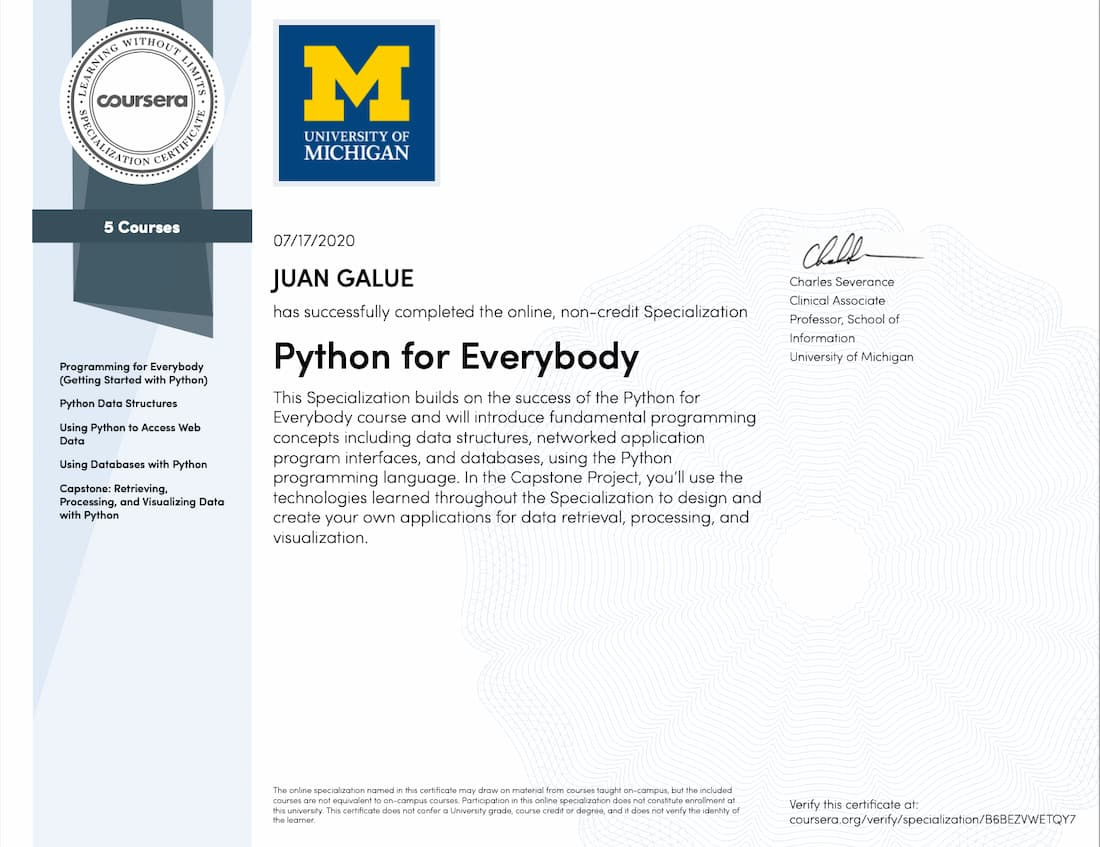
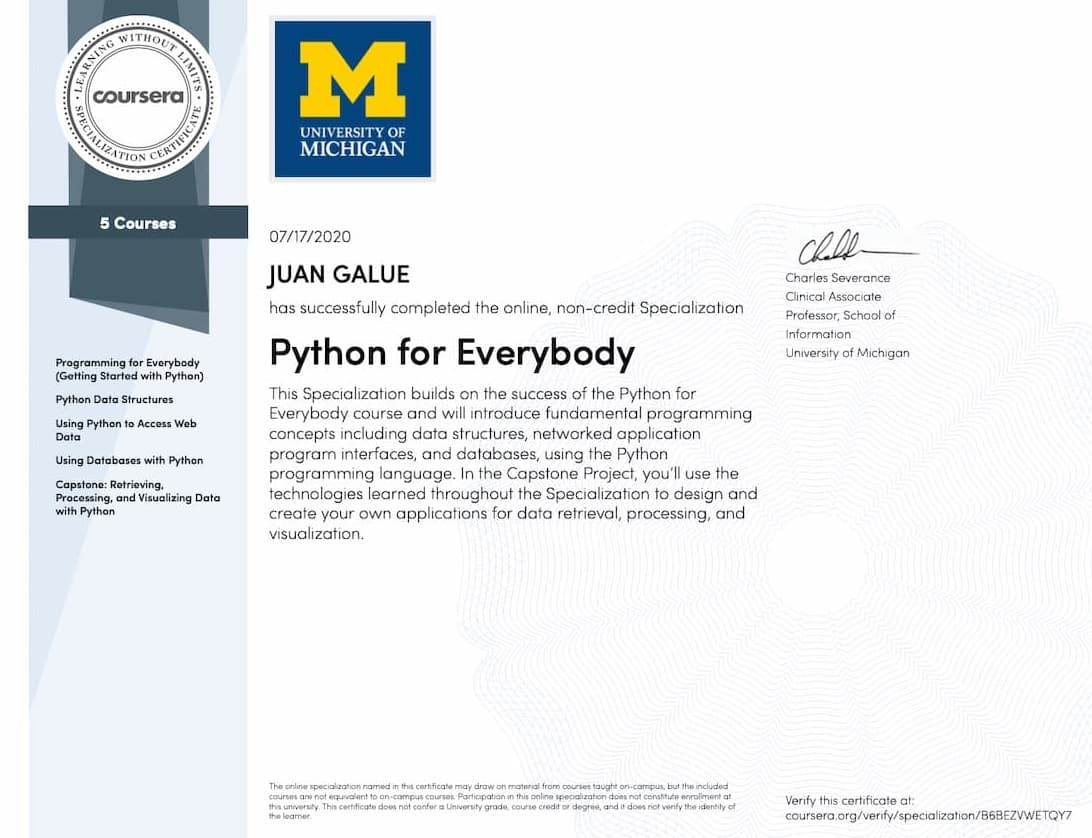
Fix some wrong dates and improve images

diff --git a/src/pages/components/Diplomas/ScriptingInPython2020.tsx b/src/pages/components/Diplomas/ScriptingInPython2020.tsx
@@ -31,7 +31,7 @@ const ScriptingInPython2020 = () => {
         Otorgado por: University of Rice a trav&eacute;s de Coursera
       </h4>
       <time className='block mb-2 text-sm font-normal leading-none text-gray-700 dark:text-slate-300'>
-        21 de noviembre de 2020
+        22 de noviembre de 2020
       </time>
       <p className='mb-4 text-base font-normal text-gray-800 dark:text-slate-200'>
         En total fueron 4 cursos sobre programaci&oacute;n esencial con Python,

diff --git a/src/pages/components/Diplomas/PFE2020.tsx b/src/pages/components/Diplomas/PFE2020.tsx
@@ -31,7 +31,7 @@ const PFE2020 = () => {
         Otorgado por: University of Michigan a trav&eacute;s de Coursera
       </h4>
       <time className='block mb-2 text-sm font-normal leading-none text-gray-700 dark:text-slate-300'>
-        16 de julio de 2020
+        17 de julio de 2020
       </time>
       <p className='mb-4 text-base font-normal text-gray-800 dark:text-slate-200'>
         En total fueron 4 cursos sobre los principios de Python, las estructuras

diff --git a/src/pages/components/Diplomas/CodingDojo2021.tsx b/src/pages/components/Diplomas/CodingDojo2021.tsx
@@ -31,7 +31,7 @@ const CodingDojo2021 = () => {
         Otorgado por: Coding Dojo Latam
       </h4>
       <time className='block mb-2 text-sm font-normal leading-none text-gray-700 dark:text-slate-300'>
-        20 de diciembre de 2021
+        10 de diciembre de 2021
       </time>
       <p className='mb-4 text-base font-normal text-gray-800 dark:text-slate-200'>
         HTML, CSS, Git/Github, jQuery, dise&ntilde;o web responsivo,{' '}

diff --git a/src/pages/components/Diplomas/NextJS2022.tsx b/src/pages/components/Diplomas/NextJS2022.tsx
@@ -1,5 +1,5 @@
 import Image from 'next/image'
-import NextJSDiploma from 'public/diplomas/RootLab-NextJS.webp'
+import NextJSDiploma from 'public/diplomas/RootLab-NextJS.jpg'
 import { BsStopwatchFill } from 'react-icons/bs'
 
 const NextJS2022 = () => {
